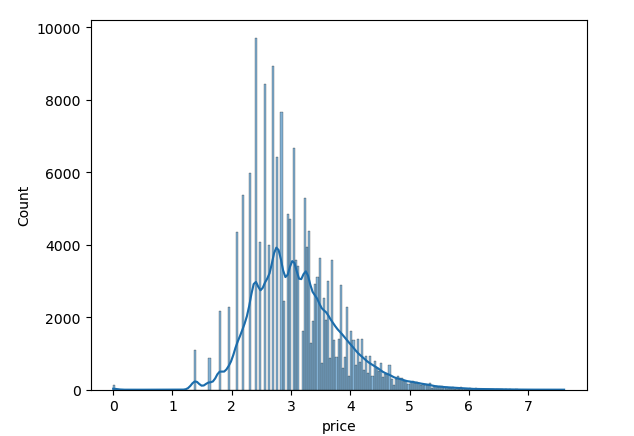
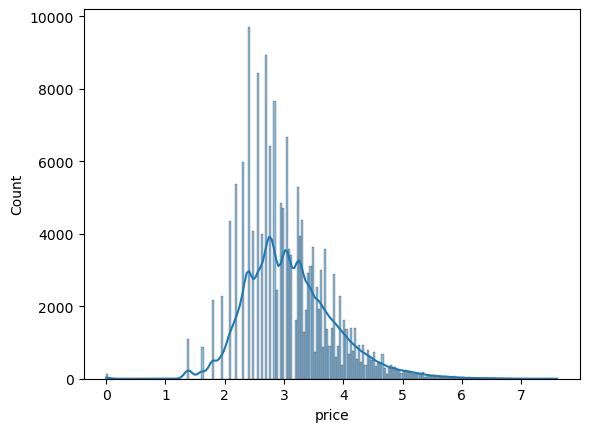
Readme update

Changed region(s): [[0.0306, 0.0301, 0.9474, 0.9931], [0.0, 0.4213, 0.0611, 0.5116]]

diff --git a/README.md b/README.md
@@ -46,12 +46,12 @@ Here are a few key visual insights discovered during the exploratory data analys
 
 🎯 Target Variable Distribution (Before and After Log Transformation)
 
-![Before Log](image/price_dist_beforeLog)
+![Before Log](image/price_dist_beforeLog.png)
 
 
 The price variable was highly skewed. A log transformation helped achieve a more normal distribution, improving model performance.
 
-![After Log](image/price_dist_afterLog)
+![After Log](image/price_dist_afterLog.png)
 
 🧾 Most Frequent Tokens by Text Column
 
